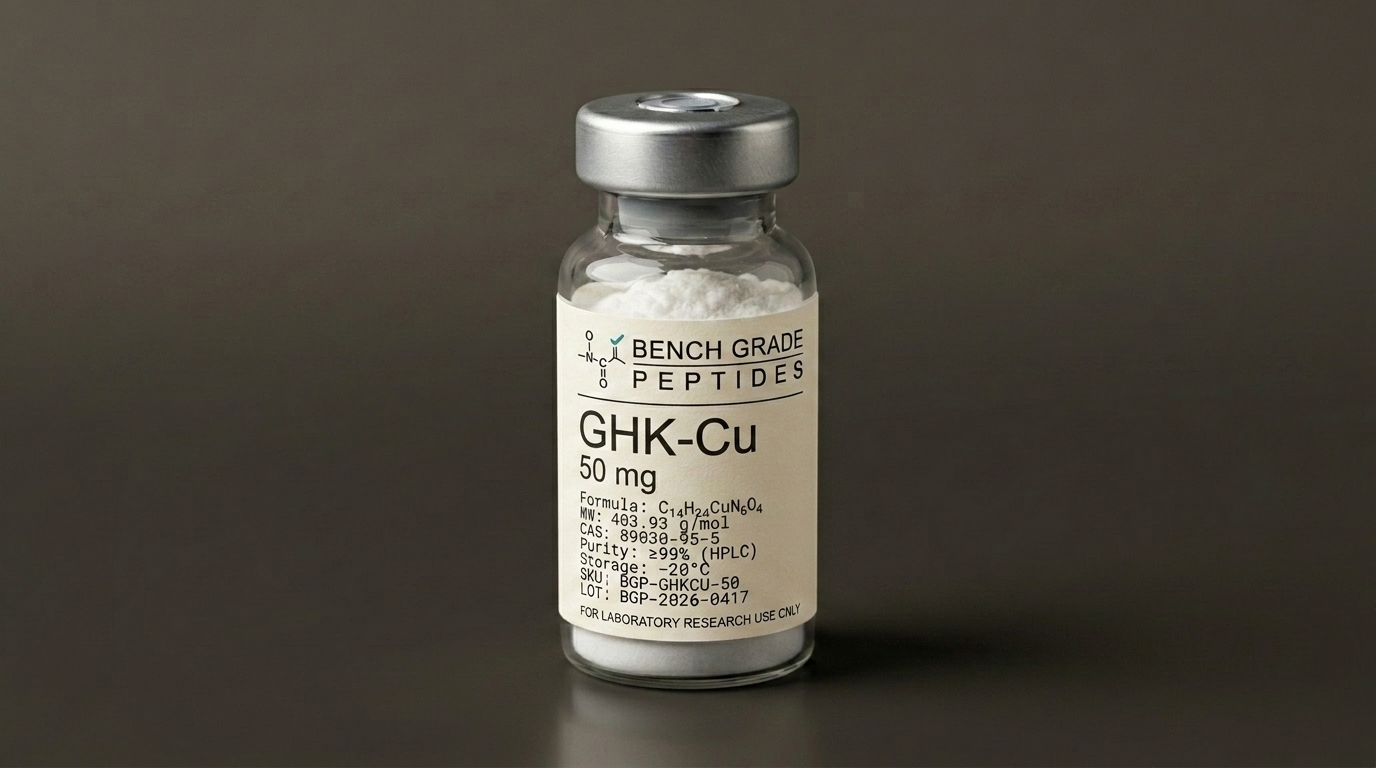
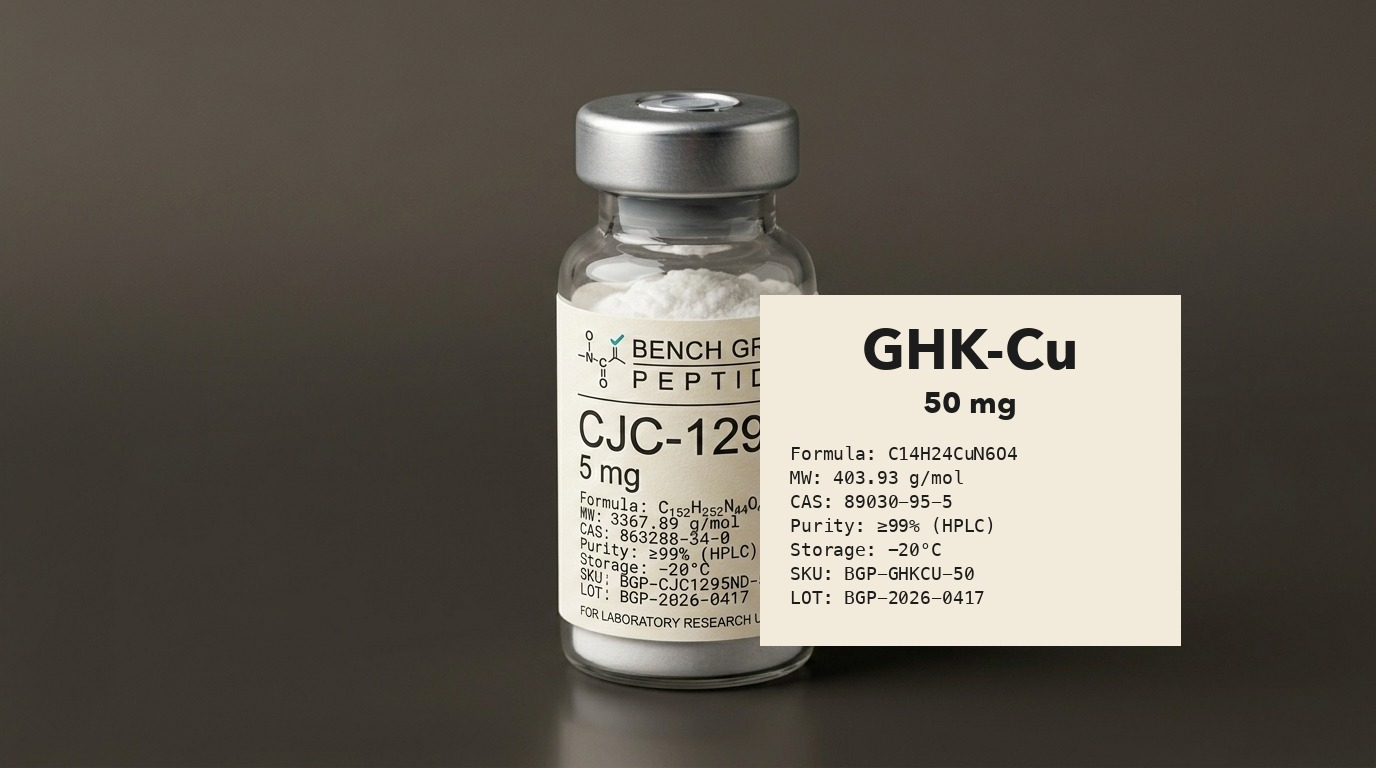
Per-SKU vial labels via PIL text-overlay + uniform card sizing
Two corrections from preview review:

1. Vial labels now reflect their actual compound. Built a PIL
   text-overlay pipeline (scripts/generate-vials.py) that paints
   accurate compound name + dosage + molecular data onto a clean copy
   of the approved master vial. Generated 56 per-SKU vials in seconds,
   replacing the AI renders that drifted on label text. Brand logo
   header and RUO footer regions of the master are preserved
   untouched; only the inner label content area is recomposited per
   SKU.

   Process:
   - Parses src/lib/catalog/data.ts via narrow regex (slug, name, CAS,
     MF, MW, first variant SKU + dosage)
   - Paints cream rectangle (#F2EBDC) over the AI-generated label
     content region (label_left=760 to label_right=1180,
     y=295..645 in the 1376×768 master)
   - Renders compound name centered (Avenir Next 56pt), dosage
     centered (30pt), molecular data block left-aligned (Menlo 18pt)
   - Saves /public/brand/vials/<slug>.jpg

   Re-run anytime catalog data.ts changes:
     python3 scripts/generate-vials.py

2. Catalog grid cards are now uniform height. ProductCard fixed-row
   structure: aspect-[4/5] image area, fixed h-4 molecular-formula
   row, fixed h-7 truncated compound name, fixed h-8 line-clamp-2
   summary, footer pinned via mt-auto. Eliminates the variable card
   heights that came from differing summary/formula lengths.

3. Removed the CUSTOM_VIALS gate in data.ts. With every SKU now
[…]

Changed region(s): [[0.4062, 0.375, 0.875, 0.8438]]

diff --git a/src/components/catalog/ProductCard.tsx b/src/components/catalog/ProductCard.tsx
@@ -9,6 +9,14 @@ interface ProductCardProps {
   categorySlug: string;
 }
 
+/**
+ * Product card for the catalog grid.
+ *
+ * Uniform sizing: every card is the same height regardless of how long
+ * the compound name, molecular formula, or summary text is. The image
+ * area is fixed at aspect-[4/5]; the text area uses fixed-height rows
+ * with truncate/line-clamp for variable content.
+ */
 export function ProductCard({ product, categorySlug }: ProductCardProps) {
   const minPrice = getMinPrice(product);
   const maxPrice = getMaxPrice(product);
@@ -22,7 +30,7 @@ export function ProductCard({ product, categorySlug }: ProductCardProps) {
       href={`/catalog/${categorySlug}/${product.slug}`}
       className="group flex flex-col bg-paper border rule p-6 hover:bg-paper-soft transition-colors focus-visible:outline-none focus-visible:bg-paper-soft"
     >
-      {/* Vial photograph */}
+      {/* Vial photograph — fixed aspect ratio for uniform card height */}
       <div className="relative aspect-[4/5] bg-paper-deep border rule mb-4 overflow-hidden">
         <Image
           src={product.vial_image}
@@ -33,22 +41,31 @@ export function ProductCard({ product, categorySlug }: ProductCardProps) {
         />
       </div>
 
+      {/* Text area — fixed-height rows for uniform layout across cards */}
       <div className="flex-1 flex flex-col">
-        {product.molecular_formula && (
-          <span className="font-mono-data text-[11px] text-ink-muted mb-2 truncate">
-            {product.molecular_formula}
-          </span>
-        )}
-        <h3 className="font-display text-xl text-ink leading-tight mb-2">
+        {/* Molecular formula — single line, truncated */}
+        <div className="h-4 mb-2">
+          {product.molecular_formula && (
+            <span className="font-mono-data text-[11px] text-ink-muted block truncate">
+              {product.molecular_formula}
+            </span>
+          )}
+        </div>
+
+        {/* Compound name — fixed height, single line, truncated */}
+        <h3 className="font-display text-xl text-ink leading-tight mb-2 truncate h-7">
           {product.name}
         </h3>
-        <p className="text-xs text-ink-muted mb-4 line-clamp-2 leading-relaxed">
+
+        {/* Summary — fixed height, two-line clamp */}
+        <p className="text-xs text-ink-muted mb-4 leading-relaxed line-clamp-2 h-8">
           {product.summary}
         </p>
 
-        <div className="mt-auto pt-4 border-t rule flex items-baseline justify-between">
-          <span className="font-mono-data text-sm text-ink">{priceRange}</span>
-          <span className="label-eyebrow text-ink-muted">{sizes}</span>
+        {/* Footer — pinned to bottom for uniform alignment */}
+        <div className="mt-auto pt-4 border-t rule flex items-baseline justify-between gap-2">
+          <span className="font-mono-data text-sm text-ink whitespace-nowrap">{priceRange}</span>
+          <span className="label-eyebrow text-ink-muted truncate">{sizes}</span>
         </div>
       </div>
     </Link>

diff --git a/src/lib/catalog/data.ts b/src/lib/catalog/data.ts
@@ -135,27 +135,15 @@ export const CATEGORIES: readonly CatalogCategory[] = [
   },
 ] as const;
 
-/** Default master vial image, used as fallback until per-SKU vials are generated. */
-const MASTER_VIAL = "/brand/vials/cjc-1295-no-dac.jpg";
-
 /**
- * Helper — returns the per-SKU vial path if it exists in public/brand/vials/,
- * otherwise the master. The list of custom vials is the authoritative set
- * of SKUs for which AI renders have been produced and approved.
+ * Returns the per-SKU vial image path. All 56 vial JPEGs are generated
+ * by `scripts/generate-vials.py`, which composites accurate compound
+ * names and molecular data onto a clean copy of the approved master
+ * vial via PIL text-overlay. Re-run that script whenever the catalog
+ * data changes.
  */
-const CUSTOM_VIALS = new Set<string>([
-  "cjc-1295-no-dac",
-  "ipamorelin",
-  "bpc-157",
-  "ghk-cu",
-  "semaglutide",
-  "tb-500",
-  "tesamorelin",
-  "selank",
-]);
-
 function vialPath(slug: string): string {
-  return CUSTOM_VIALS.has(slug) ? `/brand/vials/${slug}.jpg` : MASTER_VIAL;
+  return `/brand/vials/${slug}.jpg`;
 }
 
 /**

diff --git a/scripts/generate-vials.py b/scripts/generate-vials.py
@@ -1,0 +1,227 @@
+#!/usr/bin/env python3
+"""
+Generate per-SKU vial images by overlaying accurate compound text onto
+a clean copy of the approved master vial.
+
+Why this exists:
+    The image-generation model could not reliably reproduce specific
+    compound names and molecular data on the vial label — labels would
+    drift, hallucinate, or look inconsistent across SKUs. PIL-based
+    text overlay is deterministic, fast (sub-second per vial), and
+    100% accurate to the catalog data.
+
+How it works:
+    1. Open the master vial JPEG (an approved render with the
+       brand logo + label area).
+    2. For each SKU in the catalog, paint a cream rectangle over the
+       label's content region (preserving the brand-logo header and
+       RUO footer regions of the existing label).
+    3. Render the SKU's compound name + dosage + molecular data block
+       in the same brand typography (Geist for compound name, JetBrains
+       Mono for data).
+    4. Save to /public/brand/vials/<slug>.jpg.
+
+Run:
+    python3 scripts/generate-vials.py
+
+Inputs:
+    public/brand/vials/cjc-1295-no-dac.jpg  (master)
+    src/lib/catalog/data.ts                  (parsed for SKU data)
+
+Outputs:
+    public/brand/vials/<slug>.jpg            (one per SKU)
+"""
+from __future__ import annotations
+
+import json
+import re
+import sys
+from pathlib import Path
+
+try:
+    from PIL import Image, ImageDraw, ImageFont
+except ImportError:
+    print("error: Pillow not installed. pip install Pillow", file=sys.stderr)
+    sys.exit(1)
+
+
+ROOT = Path(__file__).resolve().parent.parent
+MASTER = ROOT / "public" / "brand" / "vials" / "cjc-1295-no-dac.jpg"
+OUT_DIR = ROOT / "public" / "brand" / "vials"
+DATA_TS = ROOT / "src" / "lib" / "catalog" / "data.ts"
+
+# Cream label color (matches our brand cream tone closely)
+CREAM = (242, 235, 220)
+INK = (28, 28, 28)
+INK_MUTED = (90, 80, 65)
+CYAN_ACCENT = (0, 165, 184)
+
+# Fonts — try common system locations; degrade to PIL default if absent.
+def _load_font(candidates: list[tuple[str, int]]) -> ImageFont.FreeTypeFont | ImageFont.ImageFont:
+    for path, size in candidates:
+        try:
+            return ImageFont.truetype(path, size)
+        except (OSError, IOError):
+            continue
+    return ImageFont.load_default()
+
+
+# Larger font for compound name; mono font for data block.
+FONT_COMPOUND = _load_font([
+    ("/System/Library/Fonts/Avenir Next.ttc", 56),
+    ("/System/Library/Fonts/Helvetica.ttc", 56),
+    ("/Library/Fonts/Arial Bold.ttf", 56),
+])
+FONT_MG = _load_font([
+    ("/System/Library/Fonts/Avenir Next.ttc", 30),
+    ("/System/Library/Fonts/Helvetica.ttc", 30),
+])
+FONT_MONO = _load_font([
+    ("/System/Library/Fonts/Menlo.ttc", 18),
+    ("/System/Library/Fonts/Courier.dfont", 18),
+])
+FONT_TINY = _load_font([
+    ("/System/Library/Fonts/Avenir Next.ttc", 13),
+    ("/System/Library/Fonts/Helvetica.ttc", 13),
+])
+
+
+def parse_products_from_ts(path: Path) -> list[dict]:
+    """
+    Pull product entries from data.ts. We don't need a full TS parser —
+    we extract the fields we care about with regex against the
+    `slug:`, `name:`, `cas_number:`, `molecular_formula:`,
+    `molecular_weight:`, and the first variant's `sku` and `size_mg`.
+
+    This is intentionally narrow — if data.ts changes shape significantly,
+    this parser breaks loudly rather than silently.
+    """
+    text = path.read_text(encoding="utf-8")
+
+    # Match each product object — slug + key fields.
+    pattern = re.compile(
+        r'\{\s*'
+        r'slug:\s*"(?P<slug>[^"]+)",\s*'
+        r'name:\s*"(?P<name>[^"]+)",\s*'
+        r'category_slug:\s*"[^"]+",\s*'
+        r'cas_number:\s*(?P<cas>(?:"[^"]*"|null)),\s*'
+        r'molecular_formula:\s*(?P<mf>(?:"[^"]*"|null)),\s*'
+        r'molecular_weight:\s*(?P<mw>(?:[\d.]+|null)),\s*'
+        r'sequence:\s*(?P<seq>(?:"[^"]*"|null)),\s*'
+        r'summary:\s*"(?P<summary>(?:[^"\\]|\\.)*)"',
+        re.DOTALL,
+    )
+
+    products = []
+    for m in pattern.finditer(text):
+        d = m.groupdict()
+        # Extract first variant's size_mg + sku from the surrounding region
+        end_idx = m.end()
+        variants_block = text[end_idx : end_idx + 1200]
+        variant_match = re.search(
+            r'size_mg:\s*([\d.]+),\s*sku:\s*"([^"]+)"',
+            variants_block,
+        )
+        if not variant_match:
+            continue
+        products.append({
+            "slug": d["slug"],
+            "name": d["name"],
+            "cas": json.loads(d["cas"]) if d["cas"] != "null" else None,
+            "mf": json.loads(d["mf"]) if d["mf"] != "null" else None,
+            "mw": float(d["mw"]) if d["mw"] != "null" else None,
+            "size_mg": float(variant_match.group(1)),
+            "sku": variant_match.group(2),
+        })
+    return products
+
+
+def render_vial(product: dict, master: Image.Image) -> Image.Image:
+    """
+    Paint the SKU's label content onto a fresh copy of the master.
+
+    Label-region coordinates are tuned to the 1376×768 master vial we
+    have on disk. The label is roughly the right-half of the image,
+    centered vertically.
+    """
+    img = master.copy()
+    draw = ImageDraw.Draw(img)
+
+    # ---- Label region (tuned by inspecting the master vial) ----
+    # The master is 1376w × 768h. The vial occupies roughly the center;
+    # the label sits on the front face of the vial. These rectangles
+    # cover the area where compound text should render.
+    label_left = 760
+    label_right = 1180
+    label_content_top = 295    # below the brand logo + rule
+    label_content_bottom = 645 # above the RUO footer line
+
+    # Paint cream rectangle over the existing AI-generated label content
+    # (preserves the brand logo at top and RUO footer at bottom).
+    draw.rectangle(
+        [(label_left, label_content_top), (label_right, label_content_bottom)],
+        fill=CREAM,
+    )
+
+    # ---- Compound name ----
+    name = product["name"]
+    name_y = label_content_top + 18
+    bbox = draw.textbbox((0, 0), name, font=FONT_COMPOUND)
+    name_w = bbox[2] - bbox[0]
+    name_x = label_left + ((label_right - label_left) - name_w) // 2
+    draw.text((name_x, name_y), name, fill=INK, font=FONT_COMPOUND)
+
+    # ---- Dosage (e.g., "5 mg") ----
+    mg_text = f"{product['size_mg']:g} mg"
+    mg_y = name_y + 70
+    bbox = draw.textbbox((0, 0), mg_text, font=FONT_MG)
+    mg_w = bbox[2] - bbox[0]
+    mg_x = label_left + ((label_right - label_left) - mg_w) // 2
+    draw.text((mg_x, mg_y), mg_text, fill=INK, font=FONT_MG)
+
+    # ---- Molecular data block (left-aligned, fine print) ----
+    mono_x = label_left + 30
+    mono_y = mg_y + 60
+    mono_lines: list[str] = []
+    if product["mf"]:
+        mono_lines.append(f"Formula: {product['mf']}")
+    if product["mw"]:
+        mono_lines.append(f"MW: {product['mw']:.2f} g/mol")
+    if product["cas"]:
+        mono_lines.append(f"CAS: {product['cas']}")
+    mono_lines.append("Purity: ≥99% (HPLC)")
+    mono_lines.append("Storage: −20°C")
+    mono_lines.append(f"SKU: {product['sku']}")
+    mono_lines.append("LOT: BGP-2026-0417")
+
+    line_h = 24
+    for i, line in enumerate(mono_lines):
+        draw.text((mono_x, mono_y + i * line_h), line, fill=INK, font=FONT_MONO)
+
+    return img
+
+
+def main() -> None:
+    if not MASTER.exists():
+        print(f"error: master vial not found: {MASTER}", file=sys.stderr)
+        sys.exit(1)
+
+    products = parse_products_from_ts(DATA_TS)
+    print(f"parsed {len(products)} products from {DATA_TS.name}")
+
+    master = Image.open(MASTER).convert("RGB")
+    print(f"master: {master.size[0]}×{master.size[1]}")
+
+    written = 0
+    for product in products:
+        out_path = OUT_DIR / f"{product['slug']}.jpg"
+        rendered = render_vial(product, master)
+        rendered.save(out_path, "JPEG", quality=92, optimize=True)
+        written += 1
+        print(f"  ✓ {product['slug']}.jpg ({product['name']} {product['size_mg']:g}mg)")
+
+    print(f"\nwrote {written} vial images to {OUT_DIR}")
+
+
+if __name__ == "__main__":
+    main()
